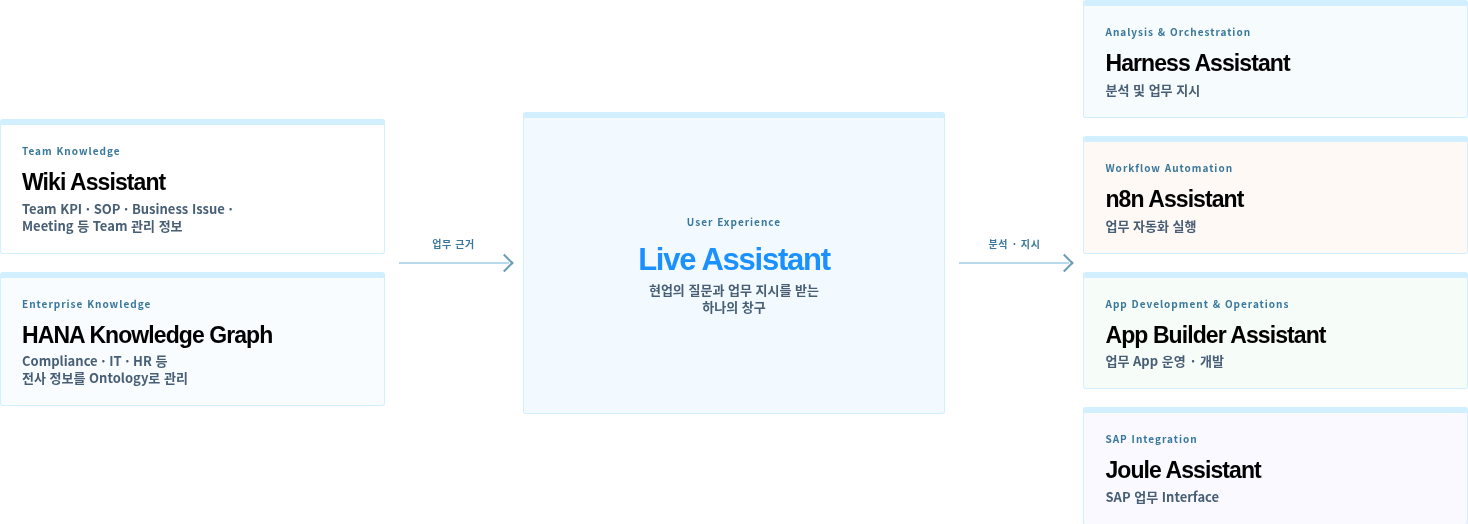
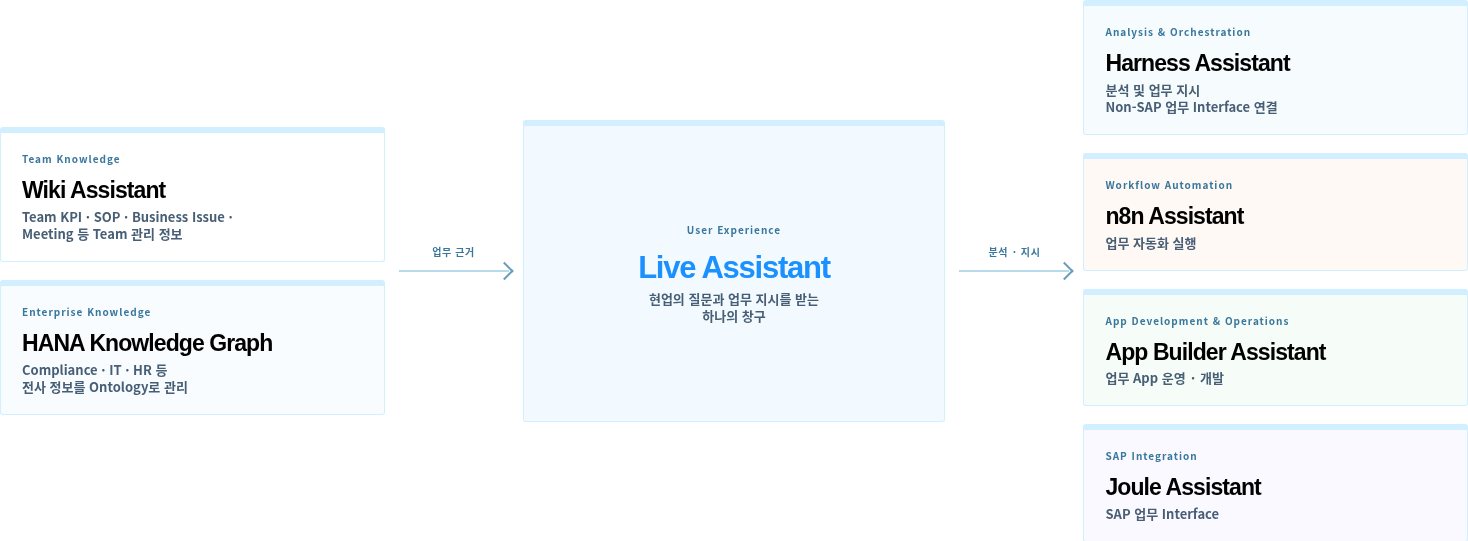
Add Non-SAP business interface to Harness Assistant

diff --git a/4page.html b/4page.html
@@ -252,7 +252,7 @@
           <article class="module harness">
             <small>Analysis & Orchestration</small>
             <h2>Harness Assistant</h2>
-            <p>분석 및 업무 지시</p>
+            <p>분석 및 업무 지시<br>Non-SAP 업무 Interface 연결</p>
           </article>
           <article class="module n8n">
             <small>Workflow Automation</small>
